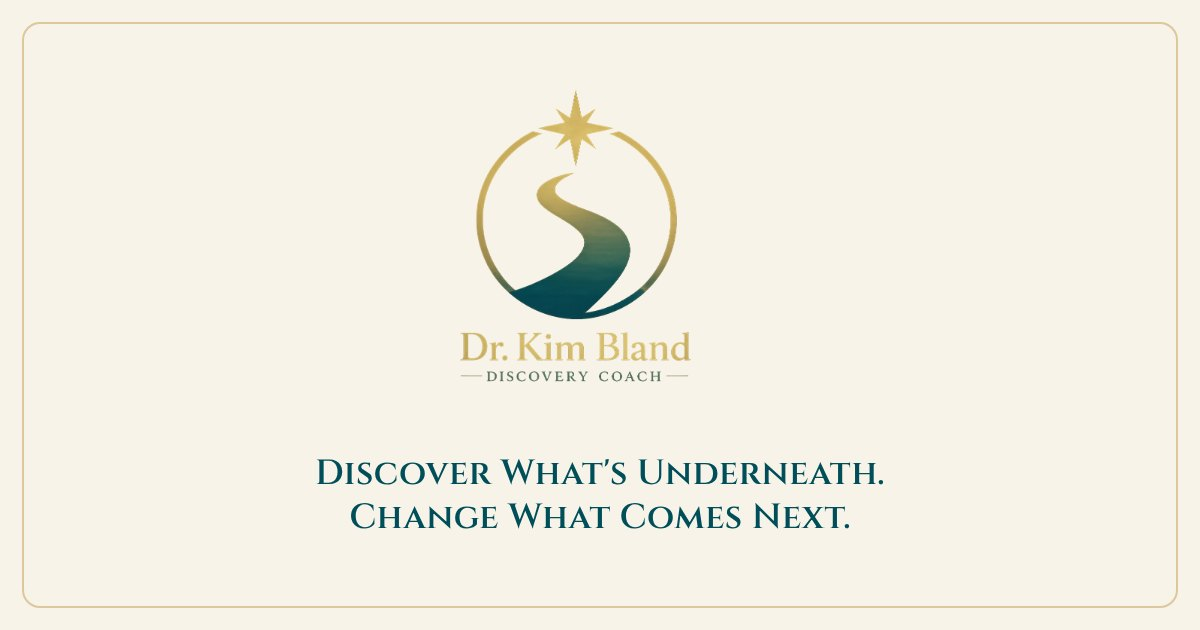
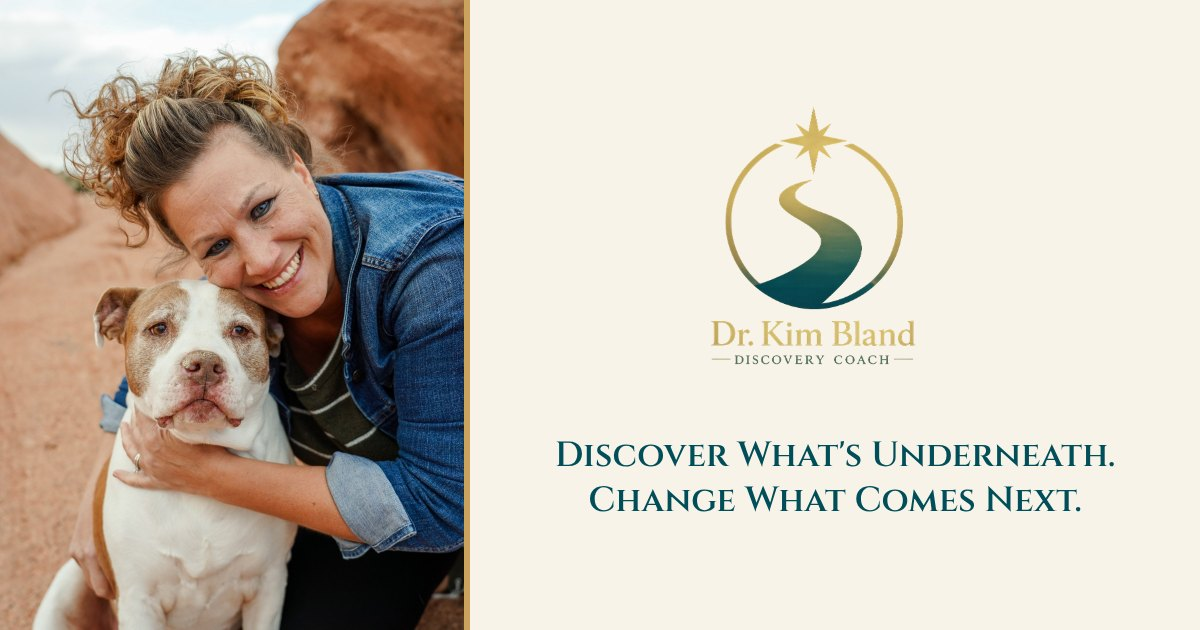
Share image: add Kim's photo

diff --git a/index.html b/index.html
@@ -17,7 +17,7 @@
     <meta property="og:image" content="https://drkimbland.com/images/og-image.jpg">
     <meta property="og:image:width" content="1200">
     <meta property="og:image:height" content="630">
-    <meta property="og:image:alt" content="Dr. Kim Bland, Discovery Coach logo with the words Discover What's Underneath. Change What Comes Next.">
+    <meta property="og:image:alt" content="Dr. Kim Bland smiling with her dog beside her Discovery Coach logo and the words Discover What's Underneath. Change What Comes Next.">
 
     <meta name="twitter:card" content="summary_large_image">
     <meta name="twitter:title" content="Dr. Kim Bland — Discovery Coach">
